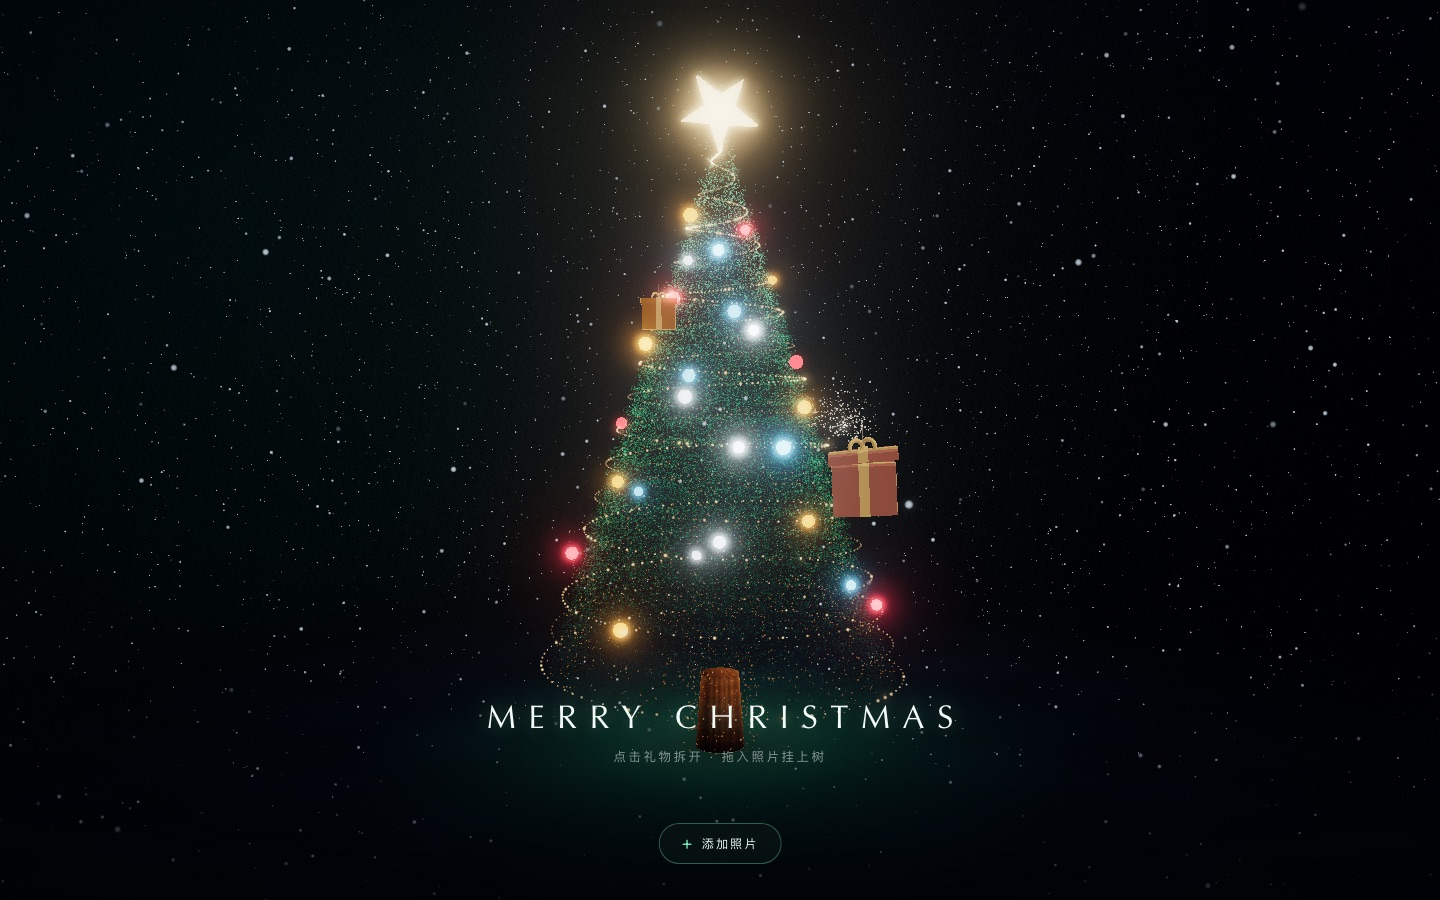
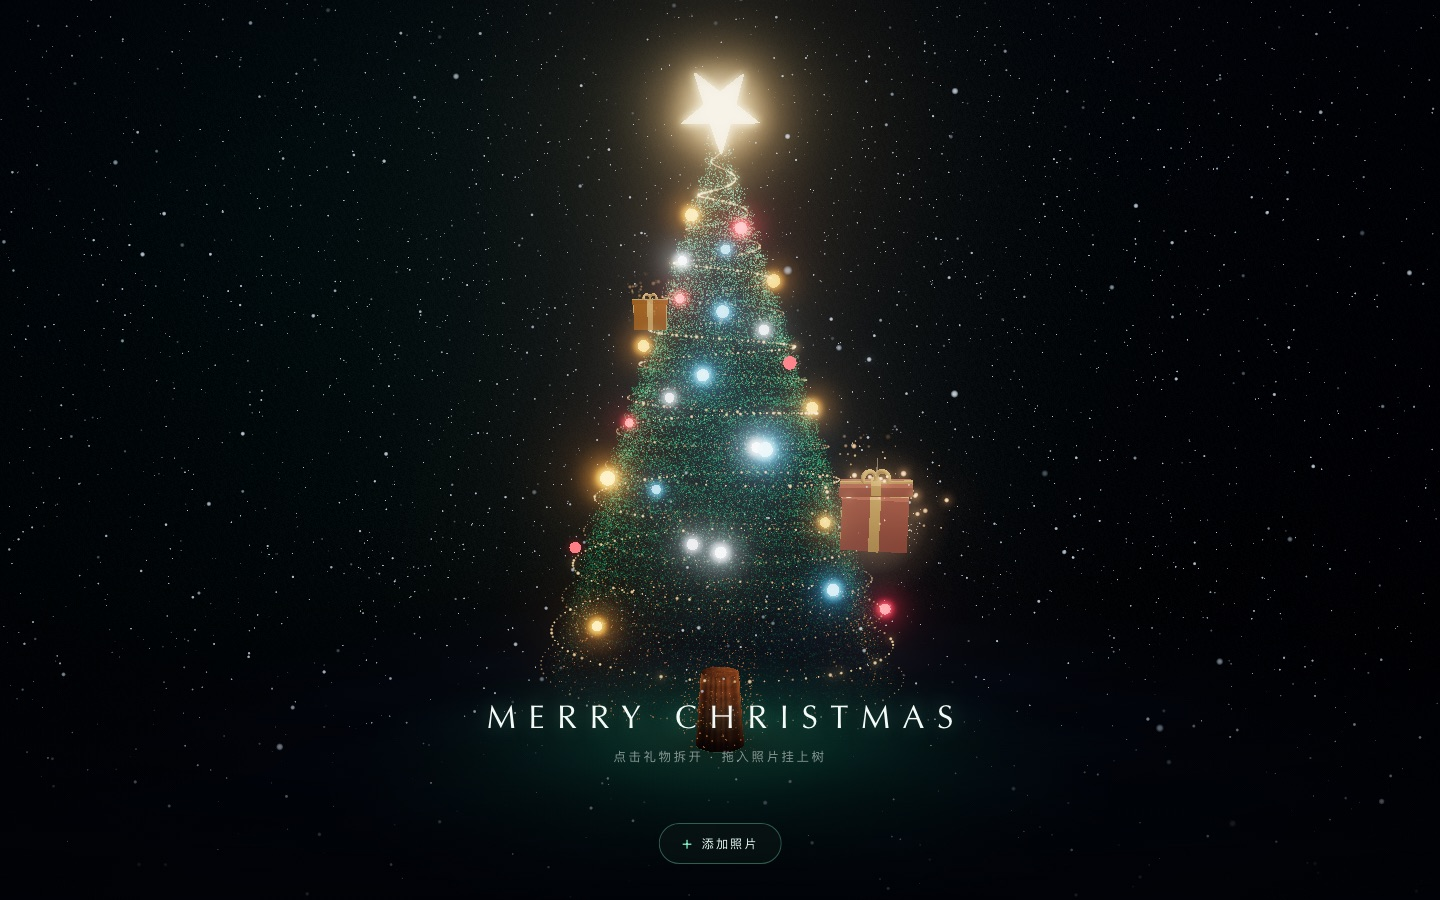
feat: 礼物周围加粒子光尘与开盒冲击波
- 每个礼盒 64 颗环绕光尘，缓慢旋转上升，悬停变亮变密
- 礼盒背后加柔光，边缘光增强，盒身加纵向渐变
- 拆礼物时盒盖飞得更高，炸开两波粒子并扩散一圈冲击波光环

Changed region(s): [[0.375, 0.1244, 0.6562, 0.8089], [0.5, 0.0622, 0.5312, 0.0933]]

diff --git a/js/photo-ornaments.js b/js/photo-ornaments.js
@@ -35,7 +35,9 @@ export function createPhotoOrnaments(world, { onSparkle } = {}) {
 
   const vertexShader = /* glsl */ `
     varying vec3 vNormalW;
+    varying vec3 vLocal;
     void main() {
+      vLocal = position;
       vNormalW = normalize(mat3(modelMatrix) * normal);
       gl_Position = projectionMatrix * modelViewMatrix * vec4(position, 1.0);
     }
@@ -47,17 +49,108 @@ export function createPhotoOrnaments(world, { onSparkle } = {}) {
     uniform float uOpacity;
     uniform float uGlow;
     varying vec3 vNormalW;
+    varying vec3 vLocal;
 
     void main() {
       vec3 n = normalize(vNormalW);
       float lambert = clamp(dot(n, normalize(vec3(0.45, 0.8, 0.55))), 0.0, 1.0);
       float rim = pow(1.0 - abs(n.z), 2.0);
-      vec3 color = uColor * (0.45 + 0.62 * lambert);
+      float gradient = 0.82 + 0.34 * smoothstep(-0.42, 0.46, vLocal.y);
+      vec3 color = uColor * (0.45 + 0.62 * lambert) * gradient;
       color += uColor * uGlow * 0.55;
-      color += uColor * rim * 0.08;
+      color += uColor * rim * 0.12;
       gl_FragColor = vec4(color, uOpacity);
     }
   `;
+
+  /** 环绕礼物飘的光尘：绕盒子缓慢转、一边上升一边闪 */
+  function makeSparkles(color) {
+    const count = 64;
+    const positions = new Float32Array(count * 3);
+    const phases = new Float32Array(count);
+    const speeds = new Float32Array(count);
+    const radii = new Float32Array(count);
+    const sizes = new Float32Array(count);
+    const offsets = new Float32Array(count);
+
+    for (let i = 0; i < count; i++) {
+      positions[i * 3] = 0;
+      positions[i * 3 + 1] = 0;
+      positions[i * 3 + 2] = 0;
+      phases[i] = Math.random();
+      speeds[i] = 0.55 + Math.random() * 1.1;
+      radii[i] = 0.5 + Math.random() * 0.8;
+      sizes[i] = 0.7 + Math.random() * 1.6;
+      offsets[i] = Math.random();
+    }
+
+    const geometry = new THREE.BufferGeometry();
+    geometry.setAttribute('position', new THREE.BufferAttribute(positions, 3));
+    geometry.setAttribute('aPhase', new THREE.BufferAttribute(phases, 1));
+    geometry.setAttribute('aSpeed', new THREE.BufferAttribute(speeds, 1));
+    geometry.setAttribute('aRadius', new THREE.BufferAttribute(radii, 1));
+    geometry.setAttribute('aSize', new THREE.BufferAttribute(sizes, 1));
+    geometry.setAttribute('aHeight', new THREE.BufferAttribute(offsets, 1));
+
+    const uniforms = {
+      uTime: { value: 0 },
+      uPixelRatio: { value: 1 },
+      uIntensity: { value: 0.25 },
+      uColor: { value: color.clone().lerp(new THREE.Color(0xffd79a), 0.45) },
+    };
+
+    const material = new THREE.ShaderMaterial({
+      uniforms,
+      transparent: true,
+      depthWrite: false,
+      blending: THREE.AdditiveBlending,
+      vertexShader: /* glsl */ `
+        uniform float uTime;
+        uniform float uPixelRatio;
+        uniform float uIntensity;
+
+        attribute float aPhase;
+        attribute float aSpeed;
+        attribute float aRadius;
+        attribute float aSize;
+        attribute float aHeight;
+
+        varying float vAlpha;
+
+        void main() {
+          float life = fract(aHeight + uTime * aSpeed * 0.22);
+          float angle = aPhase * 6.2831853 + uTime * (0.45 + aSpeed * 0.55);
+          float radius = aRadius * (0.85 + 0.18 * sin(uTime * 1.2 + aPhase * 9.0));
+          float y = -0.18 + life * 1.55;
+
+          vec3 p = vec3(cos(angle) * radius, y, sin(angle) * radius);
+          vec4 mv = modelViewMatrix * vec4(p, 1.0);
+          gl_Position = projectionMatrix * mv;
+
+          float twinkle = 0.5 + 0.5 * sin(uTime * 2.6 + aPhase * 14.0);
+          vAlpha = sin(life * 3.14159) * (0.3 + 0.7 * twinkle) * uIntensity;
+          gl_PointSize = aSize * uPixelRatio * (42.0 / max(0.6, -mv.z)) * (0.7 + 0.6 * twinkle);
+        }
+      `,
+      fragmentShader: /* glsl */ `
+        uniform vec3 uColor;
+        varying float vAlpha;
+
+        void main() {
+          float d = length(gl_PointCoord - 0.5);
+          float falloff = smoothstep(0.5, 0.0, d);
+          float alpha = falloff * vAlpha;
+          if (alpha < 0.008) discard;
+          gl_FragColor = vec4(uColor * 1.5, alpha);
+        }
+      `,
+    });
+
+    const points = new THREE.Points(geometry, material);
+    points.frustumCulled = false;
+    points.renderOrder = 7;
+    return { points, uniforms, geometry, material };
+  }
 
   function makeMaterial(color) {
     return new THREE.ShaderMaterial({
@@ -73,12 +166,40 @@ export function createPhotoOrnaments(world, { onSparkle } = {}) {
     });
   }
 
+  /* ---------------- 开盒冲击波 ---------------- */
+
+  const ringGeometry = new THREE.RingGeometry(0.6, 0.645, 64);
+  const rings = [];
+
+  function spawnRing(item) {
+    const material = new THREE.MeshBasicMaterial({
+      color: 0xffd79a,
+      transparent: true,
+      opacity: 0.5,
+      blending: THREE.AdditiveBlending,
+      depthWrite: false,
+      side: THREE.DoubleSide,
+    });
+    const mesh = new THREE.Mesh(ringGeometry, material);
+    mesh.position.copy(item.group.position);
+    mesh.renderOrder = 8;
+    group.add(mesh);
+    rings.push({
+      mesh,
+      material,
+      life: 0,
+      duration: 0.6,
+      startScale: Math.max(0.2, item.group.scale.x * 0.9),
+    });
+  }
+
   /* ---------------- 状态 ---------------- */
 
   const items = new Map();
   const order = [];
   let hoveredId = null;
   let sparkleAt = 0;
+  let pixelRatio = 1;
 
   function slotFor(index, total) {
     const t = 0.12 + 0.74 * ((index + 0.5) / Math.max(total, 1));
@@ -164,6 +285,23 @@ export function createPhotoOrnaments(world, { onSparkle } = {}) {
     string.position.y = 0.84;
     itemGroup.add(string);
 
+    const sparkles = makeSparkles(baseColor);
+    itemGroup.add(sparkles.points);
+
+    // 盒子外圈的柔光，让礼物在暗处也有一圈呼吸感
+    const auraMaterial = new THREE.SpriteMaterial({
+      map: glowTexture,
+      color: baseColor.clone().lerp(new THREE.Color(0xffe6b8), 0.35),
+      blending: THREE.AdditiveBlending,
+      transparent: true,
+      depthWrite: false,
+      opacity: 0.16,
+    });
+    const aura = new THREE.Sprite(auraMaterial);
+    aura.scale.setScalar(2.0);
+    aura.renderOrder = 5;
+    itemGroup.add(aura);
+
     // 盒子里的光（打开时溢出）
     const glowMaterial = new THREE.SpriteMaterial({
       map: glowTexture,
@@ -184,6 +322,9 @@ export function createPhotoOrnaments(world, { onSparkle } = {}) {
       group: itemGroup,
       lid,
       glow,
+      aura,
+      auraMaterial,
+      sparkles,
       bodyMaterial,
       lidMaterial,
       ribbonMaterial,
@@ -230,6 +371,9 @@ export function createPhotoOrnaments(world, { onSparkle } = {}) {
     item.bowMaterial.dispose();
     item.stringMaterial.dispose();
     item.glowMaterial.dispose();
+    item.auraMaterial.dispose();
+    item.sparkles.geometry.dispose();
+    item.sparkles.material.dispose();
     reflow();
   }
 
@@ -246,6 +390,20 @@ export function createPhotoOrnaments(world, { onSparkle } = {}) {
     if (cameraWorld && group.parent) {
       cameraLocal.copy(cameraWorld);
       group.parent.worldToLocal(cameraLocal);
+    }
+
+    for (let i = rings.length - 1; i >= 0; i--) {
+      const ring = rings[i];
+      ring.life += dt;
+      const k = Math.min(1, ring.life / ring.duration);
+      ring.mesh.scale.setScalar(ring.startScale * (1 + k * 3.2));
+      ring.material.opacity = Math.pow(1 - k, 2.2) * 0.55;
+      ring.mesh.lookAt(cameraLocal);
+      if (k >= 1) {
+        group.remove(ring.mesh);
+        ring.material.dispose();
+        rings.splice(i, 1);
+      }
     }
 
     for (const item of items.values()) {
@@ -270,9 +428,9 @@ export function createPhotoOrnaments(world, { onSparkle } = {}) {
       const pulse = 0.5 + 0.5 * Math.sin(time * 1.5 + item.phase);
 
       // 盒盖：悬停微翘，点击弹开
-      const lift = item.hover * 0.06 + item.open * 0.55;
+      const lift = item.hover * 0.06 + item.open * 0.72;
       item.lid.position.y = 0.46 + lift;
-      item.lid.rotation.z = item.open * 0.55 + item.hover * 0.06;
+      item.lid.rotation.z = item.open * 0.9 + item.hover * 0.06;
       item.lid.rotation.x = item.open * 0.28;
       item.lidMaterial.uniforms.uOpacity.value = 1 - item.open * 0.65;
 
@@ -280,6 +438,14 @@ export function createPhotoOrnaments(world, { onSparkle } = {}) {
       item.bodyMaterial.uniforms.uGlow.value = item.open * 0.5 + item.hover * 0.08 + 0.03 * pulse;
       item.glowMaterial.opacity = item.open * 0.85;
       item.glow.scale.setScalar(1.2 + item.open * 1.6);
+
+      // 光尘：平时微弱，悬停变亮，开盒时喷一层
+      const sparkle = item.sparkles.uniforms;
+      sparkle.uTime.value = time;
+      sparkle.uPixelRatio.value = pixelRatio;
+      sparkle.uIntensity.value = 0.32 + item.hover * 1.7 + item.open * 2.2;
+      item.auraMaterial.opacity = 0.12 + 0.14 * pulse + item.hover * 0.45 + item.open * 0.5;
+      item.aura.scale.setScalar(1.9 + item.hover * 0.5 + item.open * 0.9);
 
       // 悬停时轻轻晃
       item.group.rotation.z = Math.sin(time * 3.2 + item.phase) * 0.05 * item.hover;
@@ -319,7 +485,7 @@ export function createPhotoOrnaments(world, { onSparkle } = {}) {
         item.group.position.z += (fz / len) * item.hover * 0.22;
       }
 
-      if (item.hover > 0.4 && onSparkle && time - sparkleAt > 0.26) {
+      if (item.hover > 0.4 && onSparkle && time - sparkleAt > 0.18) {
         sparkleAt = time;
         onSparkle(item.group.getWorldPosition(new THREE.Vector3()));
       }
@@ -351,9 +517,14 @@ export function createPhotoOrnaments(world, { onSparkle } = {}) {
       hoveredId = id;
       for (const item of items.values()) item.hoverTarget = item.id === id ? 1 : 0;
     },
+    setPixelRatio(value) {
+      pixelRatio = value;
+    },
     setOpen(id, open) {
       const item = items.get(id);
-      if (item) item.openTarget = open ? 1 : 0;
+      if (!item) return;
+      if (open && item.openTarget !== 1) spawnRing(item);
+      item.openTarget = open ? 1 : 0;
     },
     getPosition(id) {
       const item = items.get(id);
@@ -399,6 +570,7 @@ export function createPhotoOrnaments(world, { onSparkle } = {}) {
       lidRibbonGeometryH.dispose();
       bowGeometry.dispose();
       stringGeometry.dispose();
+      ringGeometry.dispose();
       glowTexture.dispose();
     },
   };

diff --git a/js/main.js b/js/main.js
@@ -148,6 +148,7 @@ trunk.setPixelRatio(pixelRatio);
 snow.setPixelRatio(pixelRatio);
 sky.setPixelRatio(pixelRatio);
 bursts.setPixelRatio(pixelRatio);
+photoOrnaments.setPixelRatio(pixelRatio);
 
 
 /* ---------------- 文案：支持 ?to=名字 定制 ---------------- */
@@ -226,7 +227,13 @@ canvas.addEventListener('pointerup', (event) => {
       );
       const worldPosition = photoOrnaments.getPosition(hitId);
       photoOrnaments.setOpen(hitId, true);
-      if (worldPosition) bursts.spawn(worldPosition, 1.1);
+      if (worldPosition) {
+        bursts.spawn(worldPosition, 1.5);
+        window.setTimeout(() => {
+          const again = photoOrnaments.getPosition(hitId);
+          if (again) bursts.spawn(again, 1.0);
+        }, 150);
+      }
       photoOrnaments.setHover(null);
       canvas.classList.remove('is-pointing');
       // 先让盒盖弹开一点，照片再飞出来
@@ -458,6 +465,7 @@ function degrade() {
   snow.setPixelRatio(pixelRatio);
   sky.setPixelRatio(pixelRatio);
   bursts.setPixelRatio(pixelRatio);
+  photoOrnaments.setPixelRatio(pixelRatio);
 }
 
 function fallback(message) {

diff --git a/README.md b/README.md
@@ -32,8 +32,9 @@
 树上挂的不是照片，而是一个个小小的礼物盒。照片是拆开礼物才看得到的东西：
 
 - 添加照片后，照片变成树上一个小礼盒，盒身颜色取自照片主色（太灰就用节日配色），金色丝带
-- **悬停**：礼物放大、轻轻晃动、盒盖微微翘起，四周持续洒出细碎星火
-- **点击**：盒盖弹开、盒内透出暖光、炸开一簇金色粒子，照片从礼物里飞出来、放大到页面中间
+- **光尘**：每个礼物周围始终绕着一圈金色粒子，缓慢旋转上升
+- **悬停**：礼物放大、轻轻晃动、盒盖微微翘起，光尘变亮变密，并持续洒出星火
+- **点击**：盒盖弹飞、盒内透出暖光、炸开两波金色粒子并扩散一圈冲击波光环，照片从礼物里飞出来、放大到页面中间
 - 关掉照片后，礼物重新合上，树回到原来的样子
 - 礼物越多，盒子自动变小并沿螺旋重新排布；转到树背面的会淡出
 
